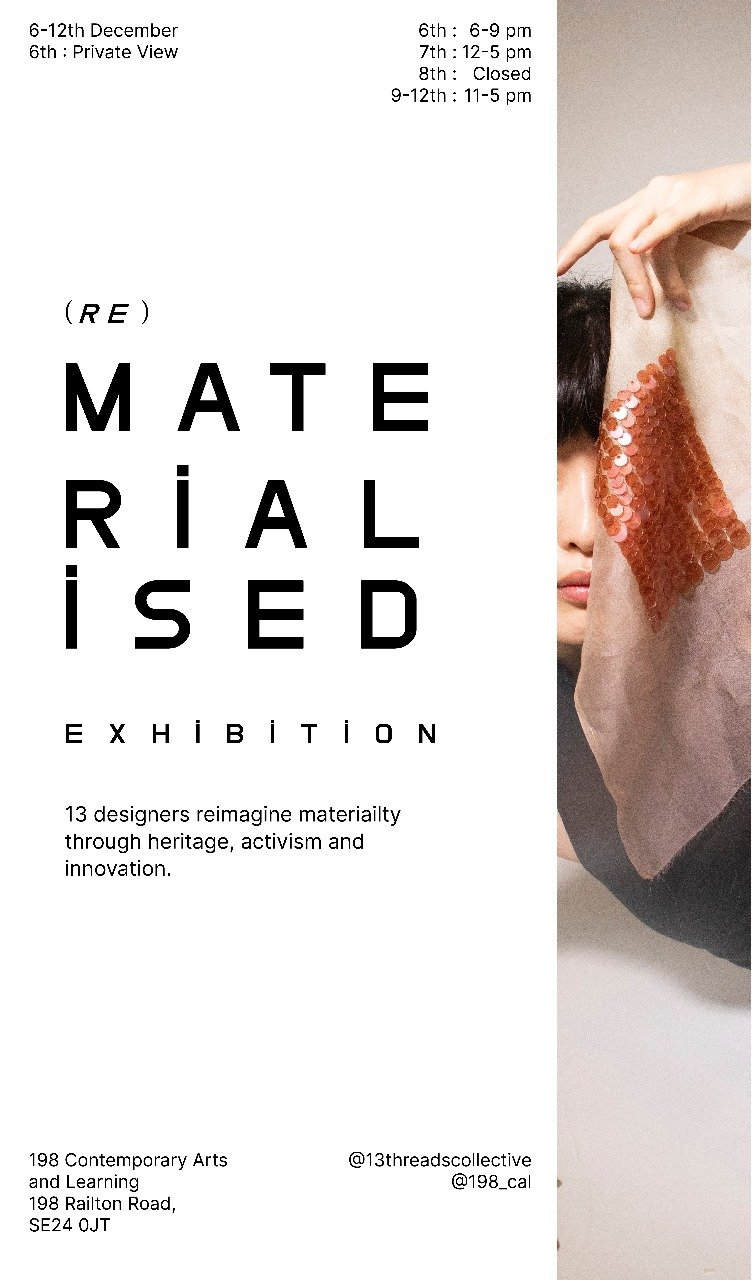
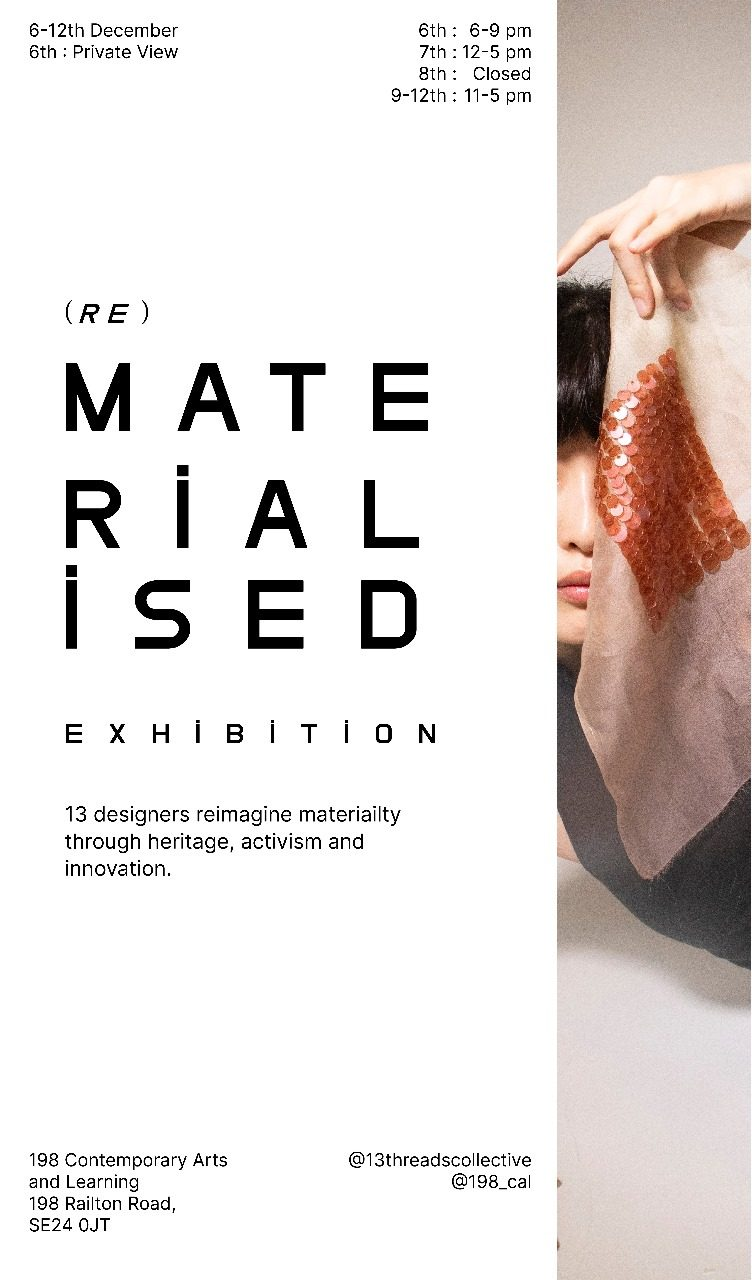
Update the (RE)MATERIALISED thumbnails with new exhibition photography
Replaces the four thumbnails with the current set: the exhibition poster,
the gold and silver sequin panel, and the amber lace sheet. All three are
portrait, so the row is now three columns of 2:3 cells rather than four
420px-tall boxes, and each image is contained rather than cropped.

The uploaded files were 752x1280 and two 6000x4000 camera originals
totalling 12MB, with the Canon frames carrying an EXIF rotation. They are
resized to a 1600x2400 bound, saved progressive at quality 82 with the
rotation baked in, and renamed for what they show — 771KB in total.

The superseded rematerialised-detail{,2,3}.jpg are removed; nothing else
referenced them. site.css regenerates unchanged.

Claude-Session: https://claude.ai/code/session_01Um3ZvQ6rqTtBUXQot5Tubt

Changed region(s): [[0.9787, 0.4062, 1.0, 0.4688], [0.9481, 0.5, 0.9787, 0.5312], [0.8564, 0.2812, 0.887, 0.3125]]

diff --git a/collaborations.html b/collaborations.html
@@ -94,26 +94,15 @@
     </div>
   </div>
 
-  <div data-reveal class="m34" style="padding:0 48px 88px; display:grid; grid-template-columns:1fr 1fr 1fr 1fr; gap:28px; align-items:start;">
-    <div style="display:flex; flex-direction:column; gap:14px;">
-      <div class="m10" style="height:420px; overflow:hidden; background:#faf8f3;">
-        <img src="assets/rematerialised-poster.jpg" style="width:100%; height:100%; object-fit:contain;" alt="Exhibition poster for (RE)MATERIALISED at 198 Contemporary Arts and Learning">
-      </div>
+  <div data-reveal class="m34" style="padding:0 48px 88px; display:grid; grid-template-columns:1fr 1fr 1fr; gap:28px; align-items:start;">
+    <div style="aspect-ratio:2/3; overflow:hidden; background:#faf8f3;">
+      <img src="assets/rematerialised-poster.jpg" style="width:100%; height:100%; object-fit:contain;" alt="Exhibition poster for (RE)MATERIALISED at 198 Contemporary Arts and Learning, 6–12 December, set beside a photograph of a sheer panel of coral scale sequins held up to the face">
     </div>
-    <div style="display:flex; flex-direction:column; gap:14px;">
-      <div class="m10" style="height:420px; overflow:hidden; background:#faf8f3;">
-        <img src="assets/rematerialised-detail.jpg" style="width:100%; height:100%; object-fit:contain;" alt="Detail of scale sequins being worked onto sheer fabric in an embroidery hoop">
-      </div>
+    <div style="aspect-ratio:2/3; overflow:hidden; background:#faf8f3;">
+      <img src="assets/rematerialised-sequin-panel.jpg" style="width:100%; height:100%; object-fit:contain;" alt="A diamond panel of gold and silver scale sequins stitched onto sheer fabric, catching the light">
     </div>
-    <div style="display:flex; flex-direction:column; gap:14px;">
-      <div class="m10" style="height:420px; overflow:hidden; background:#faf8f3;">
-        <img src="assets/rematerialised-detail2.jpg" style="width:100%; height:100%; object-fit:contain;" alt="Scale sequins laid out on trays during production for (RE)MATERIALISED">
-      </div>
-    </div>
-    <div style="display:flex; flex-direction:column; gap:14px;">
-      <div class="m10" style="height:420px; overflow:hidden; background:#faf8f3;">
-        <img src="assets/rematerialised-detail3.jpg" style="width:100%; height:100%; object-fit:contain;" alt="Scale sequins spread across trays during production for (RE)MATERIALISED">
-      </div>
+    <div style="aspect-ratio:2/3; overflow:hidden; background:#faf8f3;">
+      <img src="assets/rematerialised-lace-sheet.jpg" style="width:100%; height:100%; object-fit:contain;" alt="A translucent amber sheet of scale material with an open, lace-like structure, hung against a ribbed white wall">
     </div>
   </div>
 
